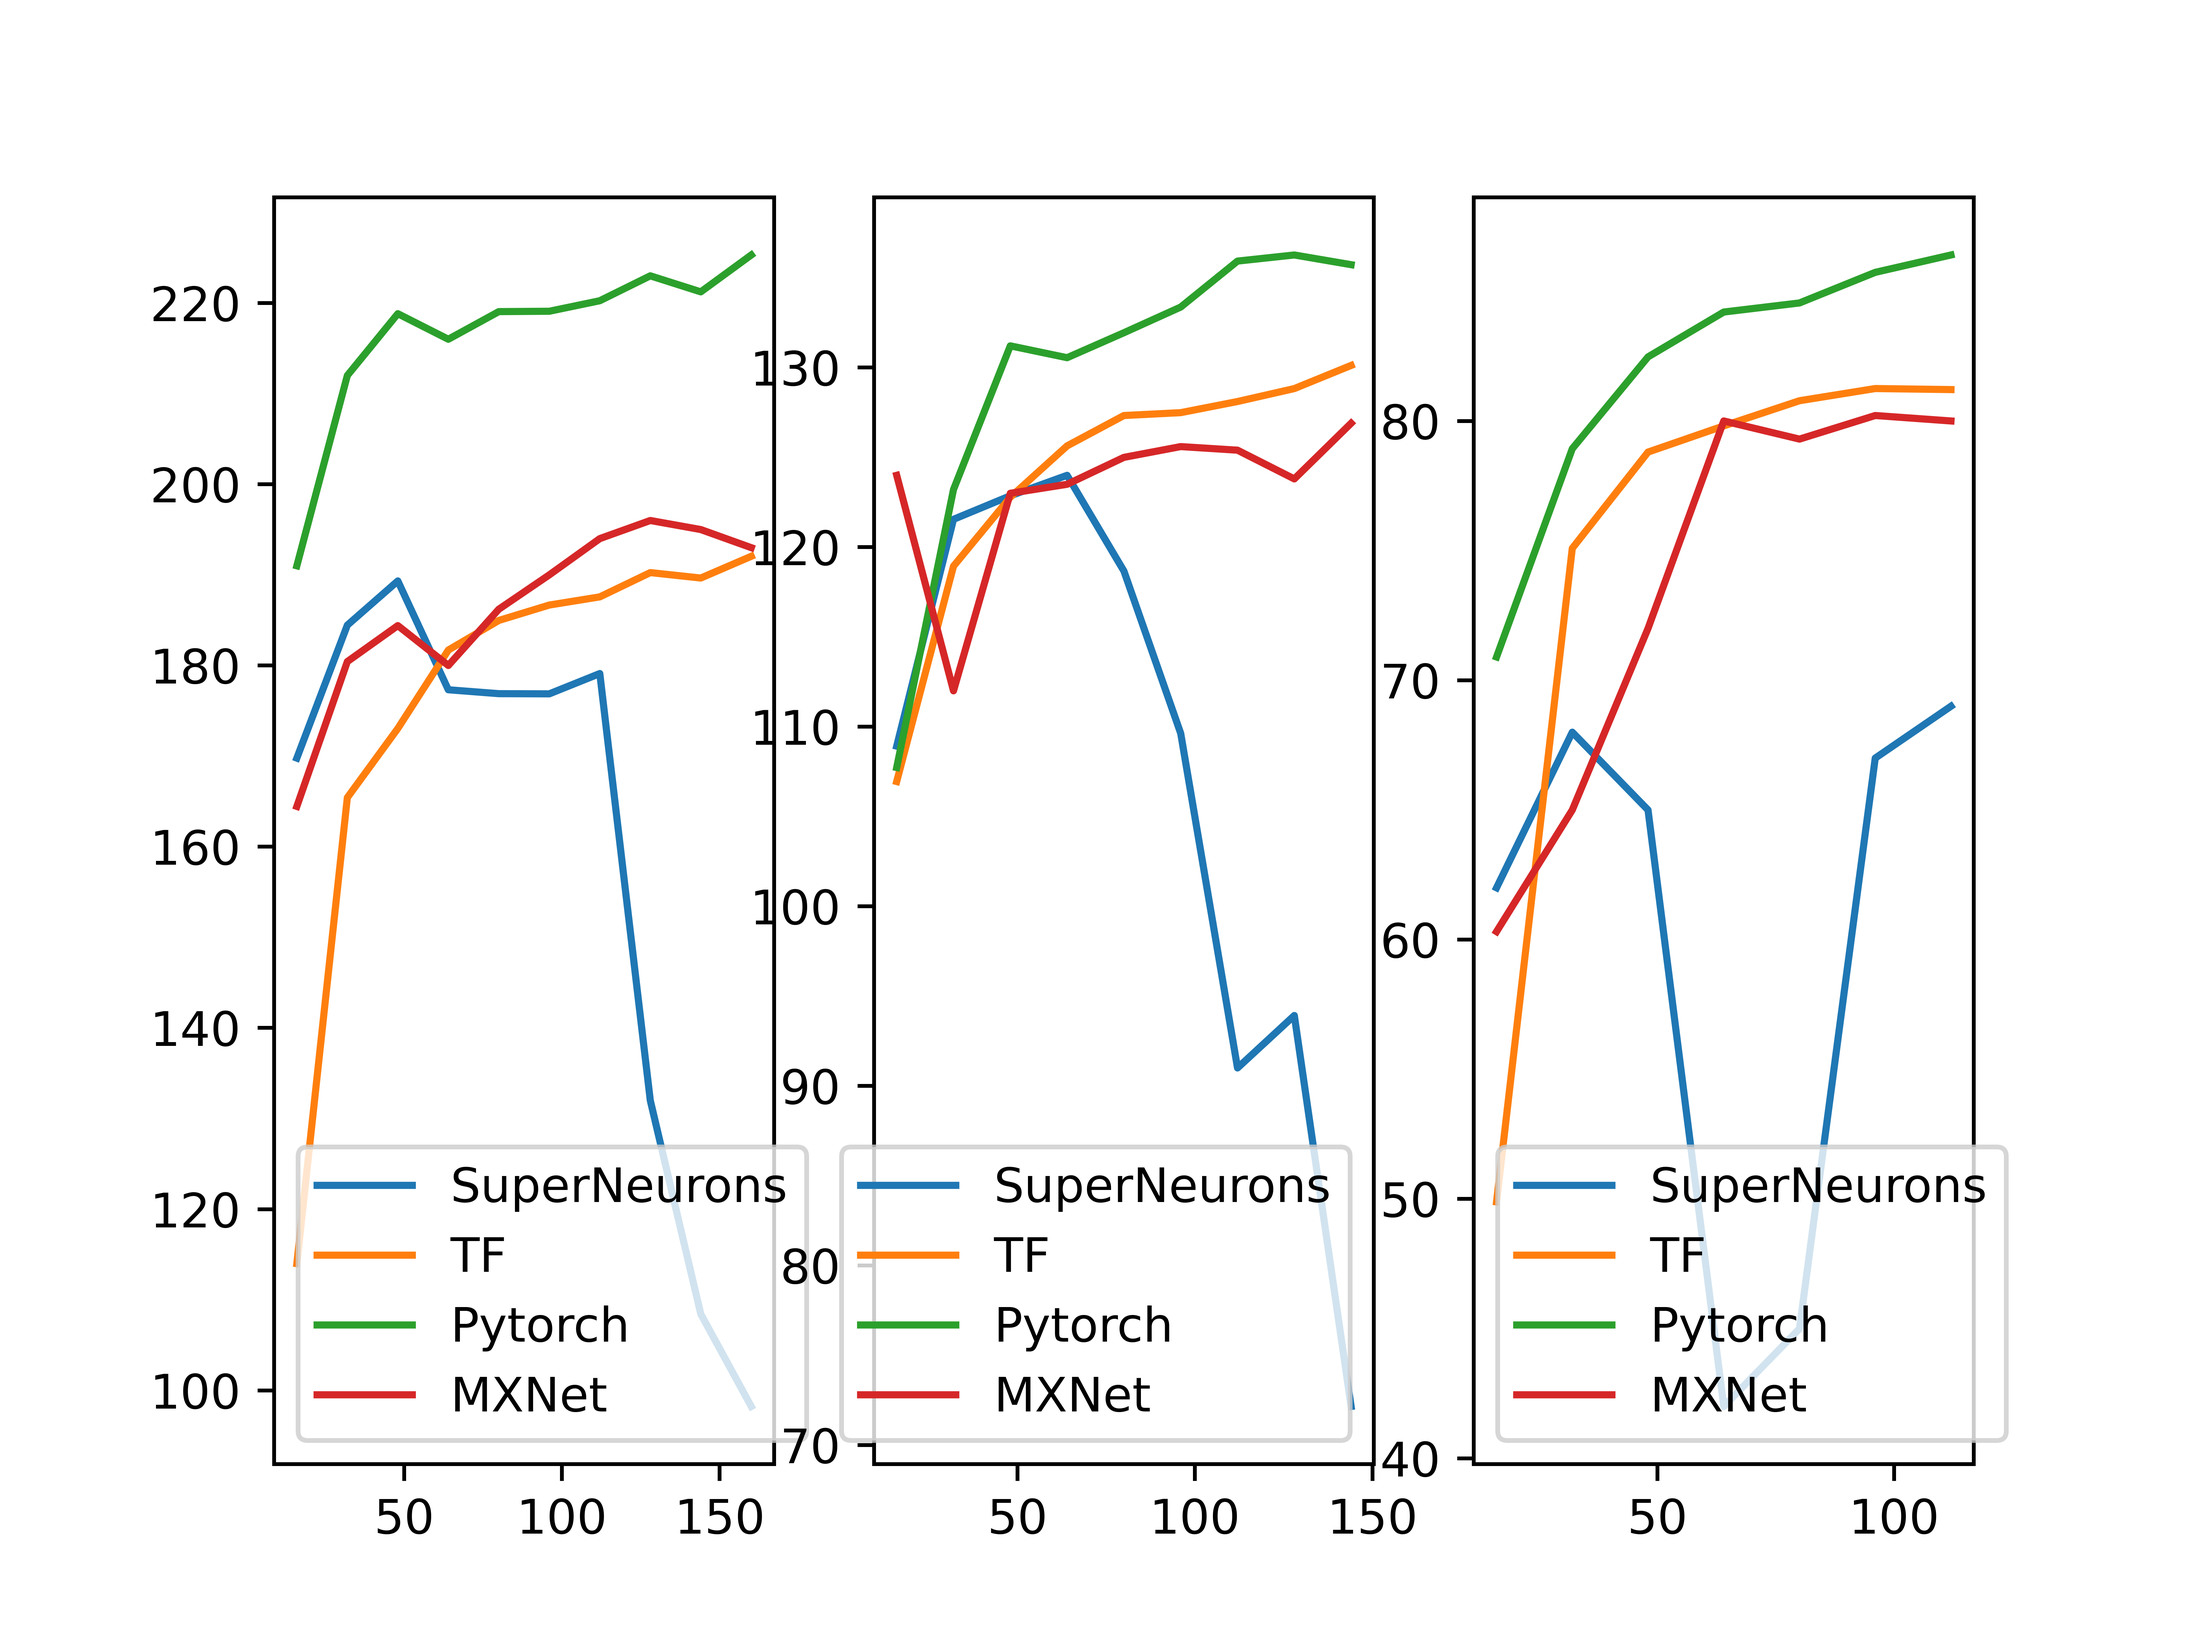
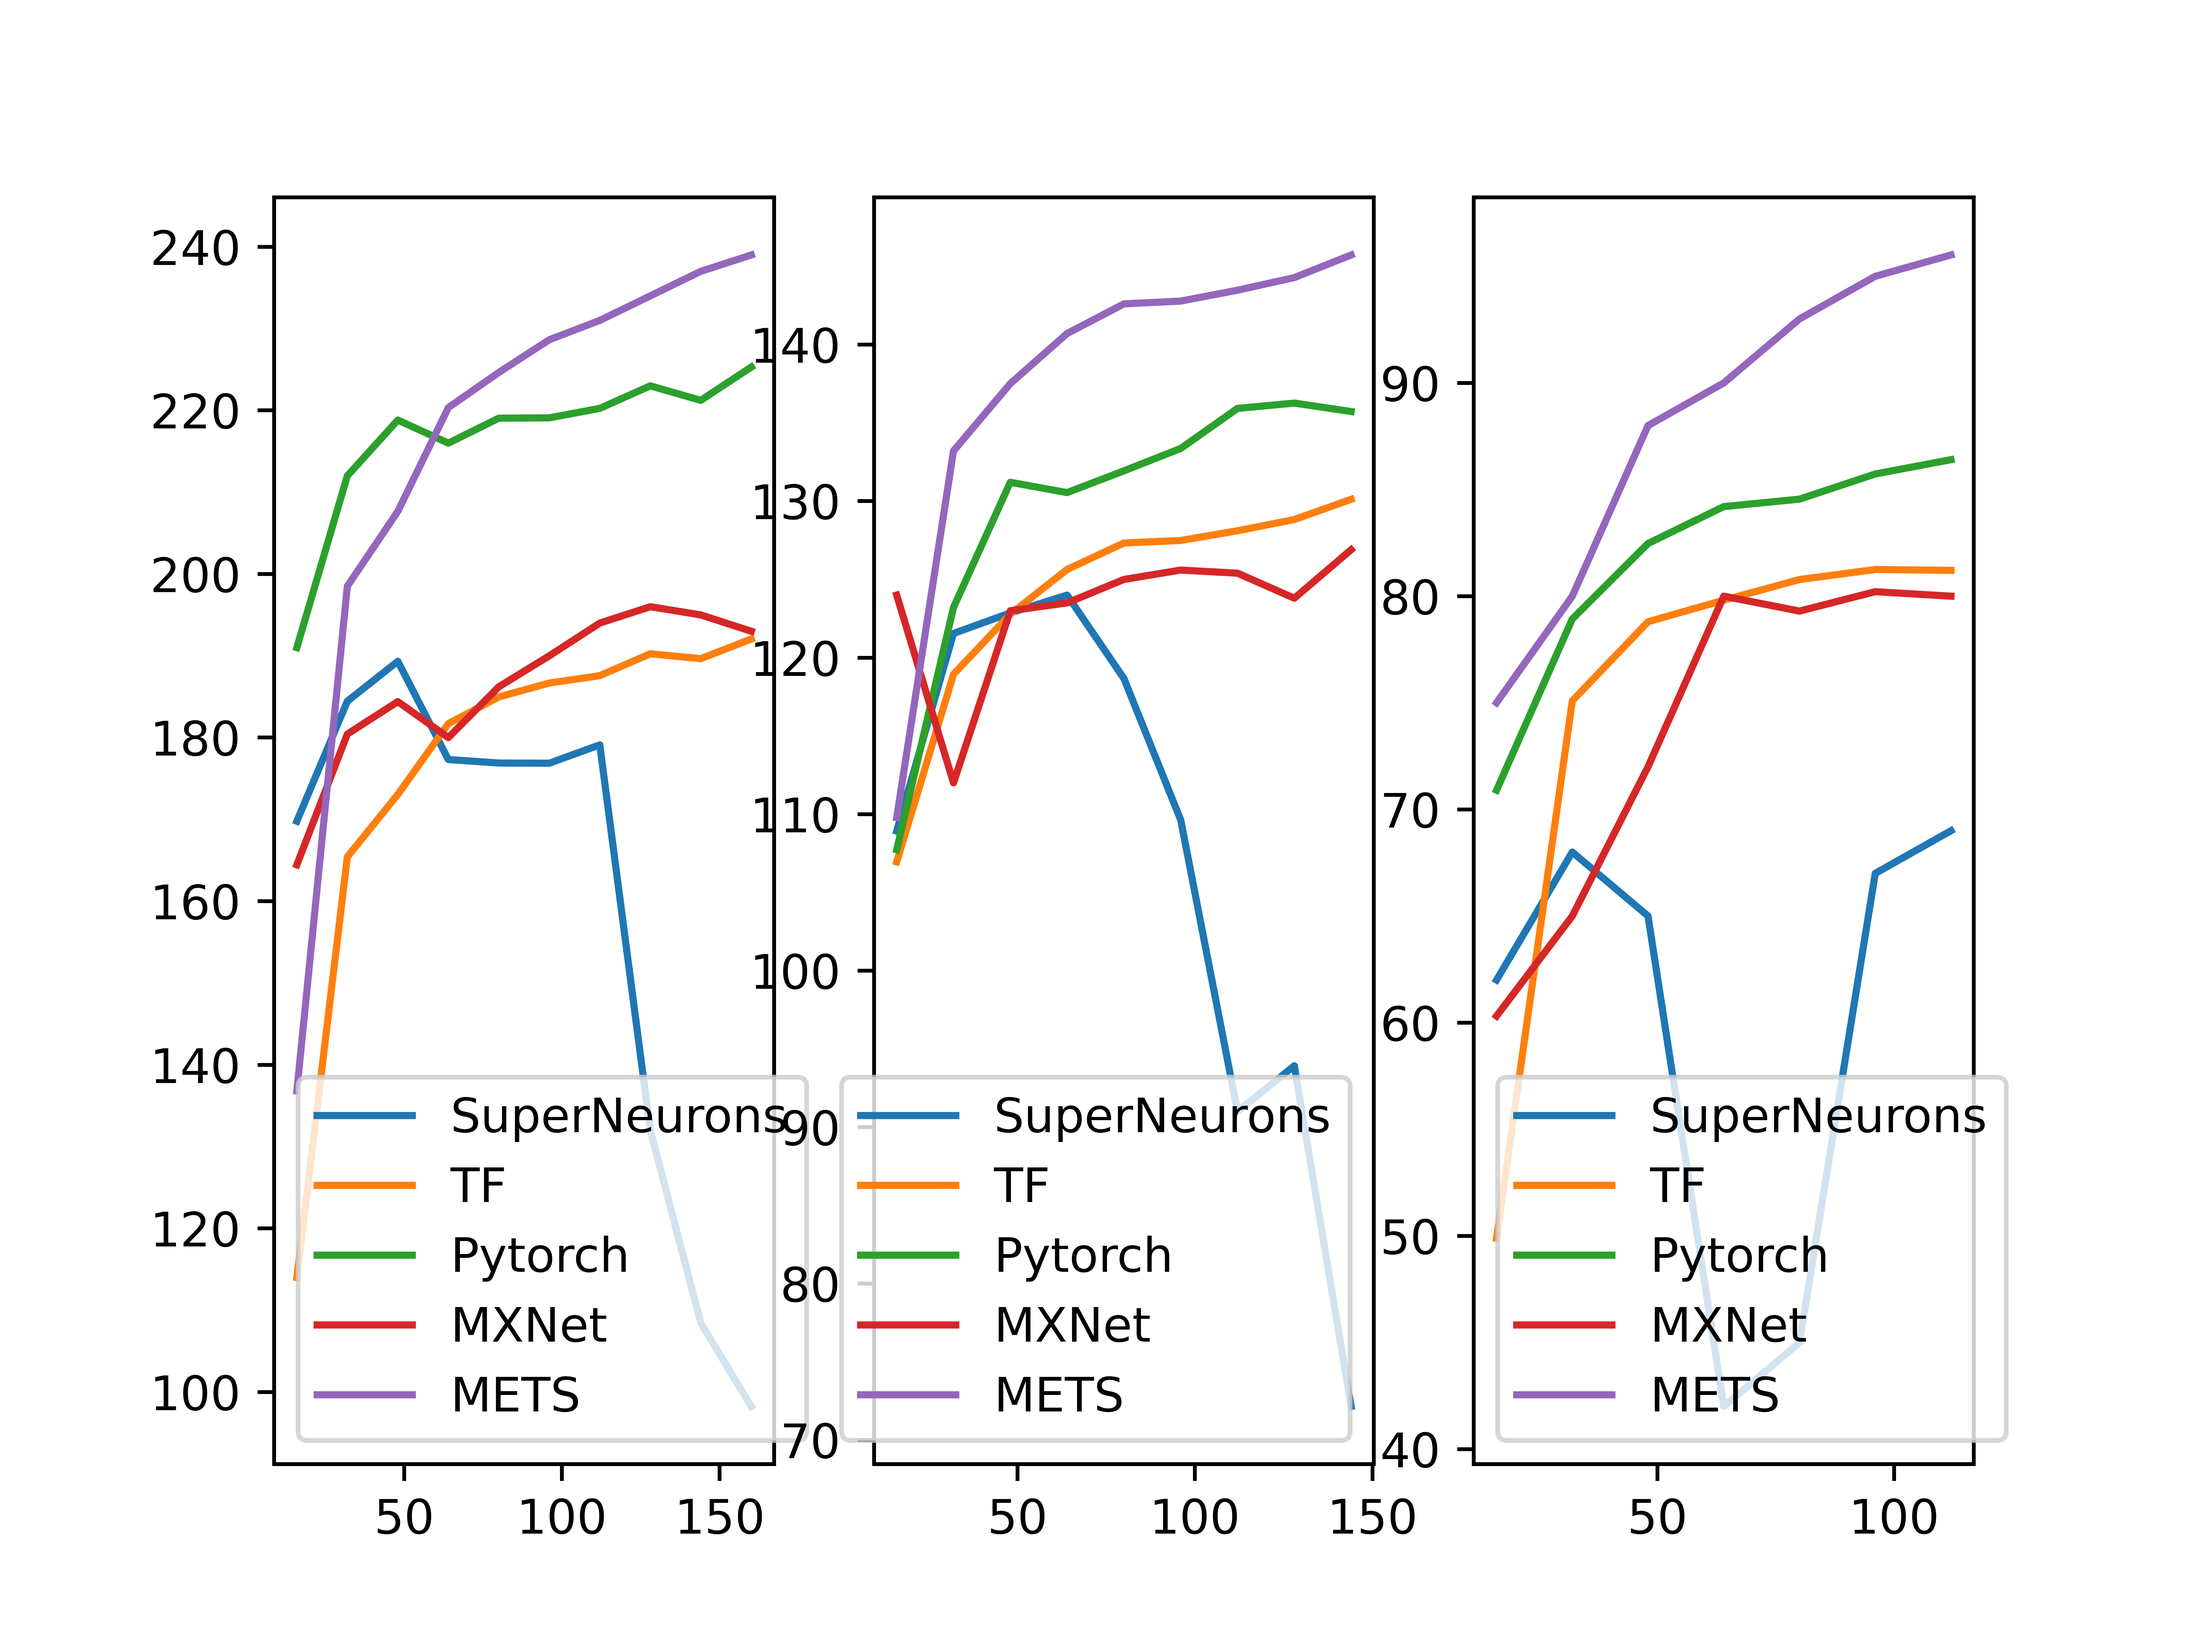
add figure6.3

diff --git a/figure6.3/figure_ploter.py b/figure6.3/figure_ploter.py
@@ -1,0 +1,30 @@
+import sys
+import os
+#导入需要用到的模块
+import pandas as pd
+import argparse
+import matplotlib.pyplot as plt
+import numpy as np
+parser = argparse.ArgumentParser(description='pass args')
+parser.add_argument('--datafile', type=str, help='input data path')
+args = parser.parse_args()
+data = pd.read_excel(args.datafile)
+label = ['SuperNeurons','TF','Pytorch','MXNet','METS']
+fig = plt.figure( dpi=1080)
+fig.add_subplot(121)
+x = np.arange(16,272,16)  # the label locations
+plt.plot(x,data[label[0]].values[:16],label=label[0])
+plt.plot(x,data[label[1]].values[:16],label=label[1])
+plt.plot(x,data[label[2]].values[:16],label=label[2])
+plt.plot(x,data[label[3]].values[:16],label=label[3])
+plt.plot(x,data[label[4]].values[:16],label=label[4])
+plt.legend()
+fig.add_subplot(122)
+x = np.arange(16,464,16)  # the label locations
+plt.plot(x,data[label[0]].values[17:45],label=label[0])
+plt.plot(x,data[label[1]].values[17:45],label=label[1])
+plt.plot(x,data[label[2]].values[17:45],label=label[2])
+plt.plot(x,data[label[3]].values[17:45],label=label[3])
+plt.plot(x,data[label[4]].values[17:45],label=label[4])
+plt.legend()
+plt.savefig("figure6.3.png")

diff --git a/figure6.2/figure_ploter.py b/figure6.2/figure_ploter.py
@@ -17,6 +17,7 @@ plt.plot(x,data[label[0]].values[:10],label=label[0])
 plt.plot(x,data[label[1]].values[:10],label=label[1])
 plt.plot(x,data[label[2]].values[:10],label=label[2])
 plt.plot(x,data[label[3]].values[:10],label=label[3])
+plt.plot(x,data[label[4]].values[:10],label=label[4])
 plt.legend()
 fig.add_subplot(132)
 x = np.arange(16,160,16)  # the label locations
@@ -24,6 +25,7 @@ plt.plot(x,data[label[0]].values[11:20],label=label[0])
 plt.plot(x,data[label[1]].values[11:20],label=label[1])
 plt.plot(x,data[label[2]].values[11:20],label=label[2])
 plt.plot(x,data[label[3]].values[11:20],label=label[3])
+plt.plot(x,data[label[4]].values[11:20],label=label[4])
 plt.legend()
 fig.add_subplot(133)
 x = np.arange(16,128,16)  # the label locations
@@ -31,5 +33,6 @@ plt.plot(x,data[label[0]].values[21:28],label=label[0])
 plt.plot(x,data[label[1]].values[21:28],label=label[1])
 plt.plot(x,data[label[2]].values[21:28],label=label[2])
 plt.plot(x,data[label[3]].values[21:28],label=label[3])
+plt.plot(x,data[label[4]].values[21:28],label=label[4])
 plt.legend()
 plt.savefig("figure6.2.png")

diff --git a/figure6.3/README.md b/figure6.3/README.md
@@ -1,0 +1,7 @@
+# 开源解决方案内存占用对比
+## 执行方式
+运行此命令
+```
+./reproduce.sh
+```
+可以得到图6.3
